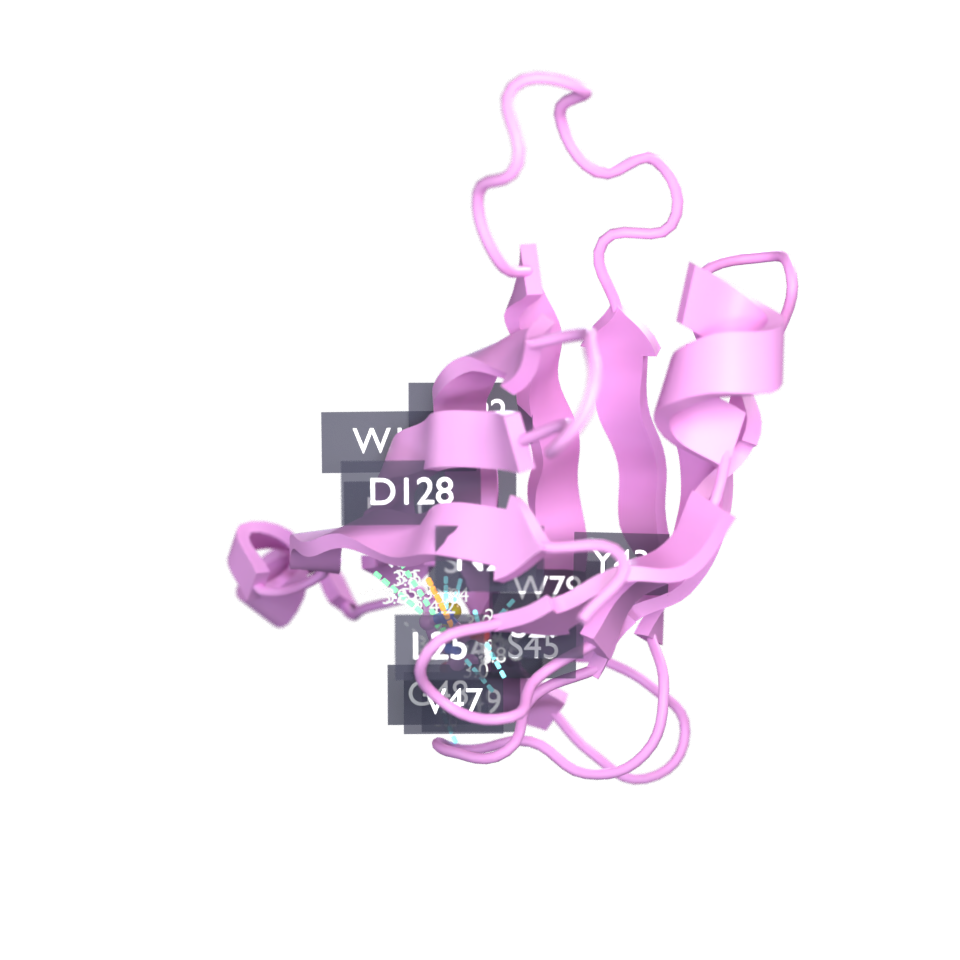
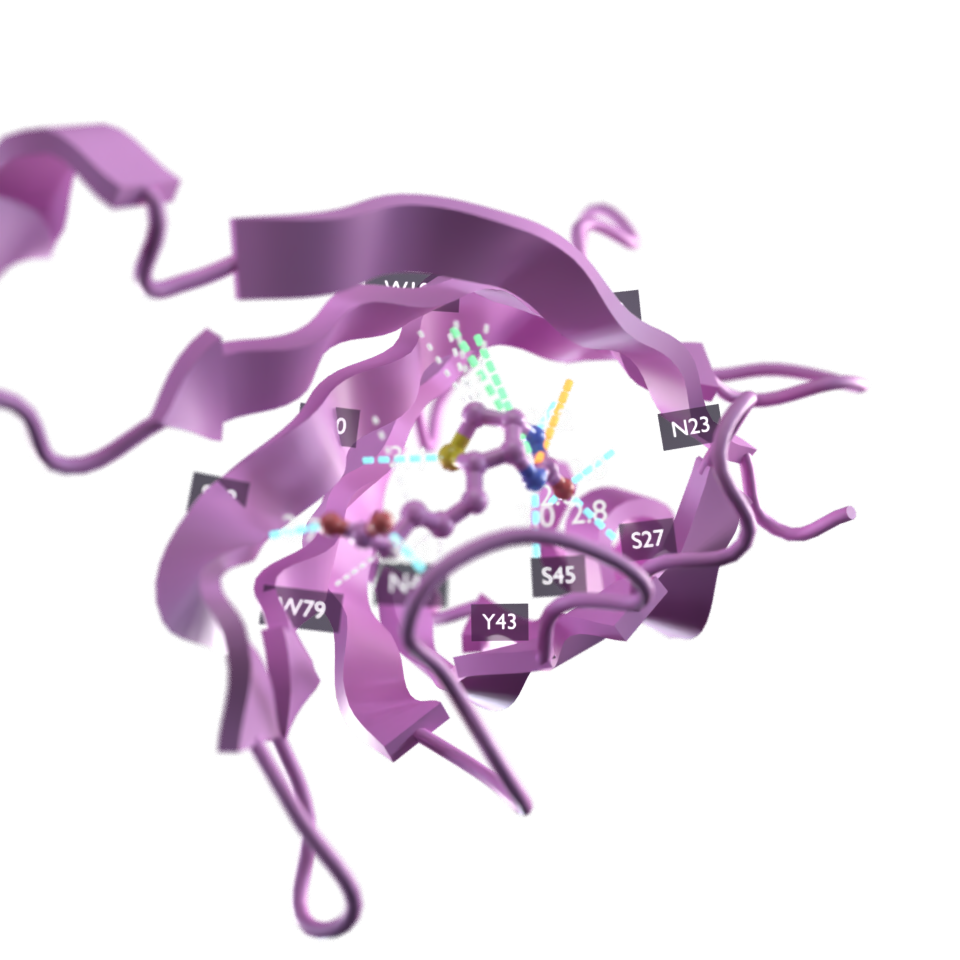
Show the binding site in the binding-site vignette
The figure was the whole 917-atom protein with sixteen label cards stacked
over the site in the middle of it, which is not a picture of a binding site.
Three things were wrong, and step 6 admitted the first in its own heading:

* "Frame the site rather than the whole protein" framed `mol`. frame_target
  had no way to do otherwise, so it now takes a `selection` — the rest of the
  molecule stays in the scene and is simply allowed out of shot. The camera
  guide already told people to "frame a selection instead", which until now
  they could not.

* The viewpoint was a fixed compass point. It is now computed from the
  structure: out of the protein through the ligand is where the pocket opens,
  so that is where the camera goes. For 1STP that is (-55, -60), and it still
  points at the site for a different complex.

* Every one of the sixteen pocket residues was labelled at size 2.0, and every
  one of the twenty contacts carried a distance. Now the ten residues within
  3.6 A are labelled at 0.9, and distances are quoted for the nine polar
  contacts — what a figure legend would report, rather than twenty numbers
  over one ligand.

Tried and rejected: styling the pocket as sticks and ghosting the cartoon.
Both made it busier rather than clearer, which was the whole complaint.

diff --git a/vignettes/02_binding_site.py b/vignettes/02_binding_site.py
@@ -13,6 +13,7 @@ import sys
 
 sys.path.insert(0, os.path.dirname(os.path.abspath(__file__)))
 
+import numpy as np
 from _common import QUALITY, heading, load_structure, render, setup
 
 mn, gala = setup()
@@ -86,8 +87,19 @@ for contact in sorted(contacts, key=lambda c: c.distance)[:6]:
 heading("4. Draw them")
 # ---------------------------------------------------------------------------
 # Real curve objects, not overlays: they light, shadow and occlude correctly.
+#
+# Distances are quoted for the polar contacts only. It is what a figure legend
+# would report, and twenty numbers stacked over one binding site is not a
+# figure anybody can read.
+POLAR_KINDS = {"hbond", "polar", "salt_bridge"}
+
 drawn = gala.draw_interactions(
-    contacts,
+    [c for c in contacts if c.kind not in POLAR_KINDS],
+    target=mol,
+    label=False,
+)
+drawn += gala.draw_interactions(
+    [c for c in contacts if c.kind in POLAR_KINDS],
     target=mol,
     label=True,
     label_template="{distance:.1f}",
@@ -113,15 +125,20 @@ gala.draw_interactions(
 # ---------------------------------------------------------------------------
 heading("5. Label the pocket")
 # ---------------------------------------------------------------------------
+# Only the residues in closest contact, and sized for the close-up below
+# rather than for the whole protein. Naming all sixteen pocket residues at this
+# range stacks the cards on top of each other and on the site they describe.
+CLOSEST = f"byres (protein within 3.6 of ({LIGAND}))"
+
 labels = gala.label(
     mol,
-    POCKET,
+    CLOSEST,
     template="{one}{resi}",
     level="residue",
     anchor="ca",
     style="card",  # a translucent plane keeps text legible over the surface
-    size=2.0,
-    offset=3.0,
+    size=0.9,
+    offset=2.0,
     billboard=True,
 )
 print(f"  labelled {len([o for o in labels if o.type == 'FONT'])} residues")
@@ -133,9 +150,31 @@ gala.label_hud(mol, "Ligand binding site", location=(0.04, 0.95), size=28)
 # ---------------------------------------------------------------------------
 heading("6. Frame the site rather than the whole protein")
 # ---------------------------------------------------------------------------
-# The margin only has to clear the labels and dashes drawn around the
-# molecule; the framing itself is now tight to the atoms.
-gala.frame_target(mol, viewpoint="iso", margin=1.15)
+# Frame the pocket, not the protein: the rest stays in the scene and is simply
+# allowed out of shot. Framing `mol` here — which this used to do, despite the
+# heading — put the whole 917-atom protein in the frame and left the site a
+# knot in the middle of it.
+SITE = f"({POCKET}) or ({LIGAND})"
+
+# Look into the pocket rather than from a fixed compass point. The direction
+# out of the protein through the ligand is where the site opens, so that is
+# where the camera belongs — derived from this structure rather than
+# hand-tuned, so it still points at the site for a different complex.
+import math
+
+positions = structure.world_positions()
+outward = positions[structure.select(LIGAND)].mean(axis=0) - positions[
+    structure.select("protein")
+].mean(axis=0)
+outward /= np.linalg.norm(outward)
+viewpoint = (
+    math.degrees(math.atan2(outward[0], -outward[1])),
+    math.degrees(math.asin(float(np.clip(outward[2], -1.0, 1.0)))),
+)
+print(f"  looking in along ({viewpoint[0]:.0f} deg, {viewpoint[1]:.0f} deg)")
+
+# The margin has to clear the labels, which sit outside the atoms they name.
+gala.frame_target(mol, selection=SITE, viewpoint=viewpoint, margin=1.7)
 gala.depth_of_field(mol, fstop=4.0)
 
 

diff --git a/blender_gala/scene/camera.py b/blender_gala/scene/camera.py
@@ -183,6 +183,7 @@ def frame_target(
     target: Any = None,
     viewpoint: str | Sequence[float] = "iso",
     margin: float = 1.15,
+    selection: str | None = None,
     camera: Any = None,
     scene: Any = None,
 ) -> Any:
@@ -199,6 +200,10 @@ def frame_target(
         Extra room around the molecule, as a multiple of its projected extent.
         ``1.0`` puts the outermost atom exactly on the frame edge; the default
         leaves a little air so atoms do not touch it.
+    selection : str, optional
+        Frame only these atoms, which is how you close in on a binding site
+        without hiding the rest of the protein. Everything else stays in the
+        scene and is simply allowed out of frame.
     camera : bpy.types.Object, optional
         Camera to move. Defaults to the scene camera, created if absent.
     scene : bpy.types.Scene, optional
@@ -213,6 +218,8 @@ def frame_target(
     ------
     ValueError
         If ``viewpoint`` is neither a known name nor a pair of angles.
+    EmptySelectionError
+        If ``selection`` matches no atoms.
     """
     bpy_mod = _require_bpy()
     scene = scene or bpy_mod.context.scene
@@ -257,10 +264,14 @@ def frame_target(
         np.array(orientation @ Vector((0.0, 0.0, -1.0))),  # forward
     )
 
-    points = _subject_points(target, scene)
+    points = _subject_points(target, scene, selection)
     if points is None or len(points) == 0:
         distance = _fit_distance(radius, camera.data, scene, margin)
     else:
+        # Recomputed from the points actually being framed, which is not the
+        # whole molecule when a selection narrows it.
+        centre = points.mean(axis=0)
+        radius = max(float(np.linalg.norm(points - centre, axis=1).max()), 1e-4)
         centre, distance = _fit_to_points(
             points, centre, basis, camera.data, scene, margin
         )
@@ -286,13 +297,16 @@ def _target_bounds(target: Any, scene: Any) -> tuple[np.ndarray, float]:
     return _subject_bounds(target, scene)
 
 
-def _subject_points(target: Any, scene: Any) -> np.ndarray | None:
+def _subject_points(
+    target: Any, scene: Any, selection: str | None = None
+) -> np.ndarray | None:
     """World-space points to fit in the frame, or ``None`` if there are none.
 
     Atom positions when the target is a molecule, and bounding-box corners
     otherwise: a box is still a much closer fit than the sphere around it.
     """
     from ..core.entity import AtomStructure
+    from ..core.exceptions import EmptySelectionError
 
     if target is not None:
         try:
@@ -300,7 +314,18 @@ def _subject_points(target: Any, scene: Any) -> np.ndarray | None:
         except Exception:
             structure = None
         if structure is not None and structure.n_atoms and structure.object is not None:
-            return structure.world_positions()
+            positions = structure.world_positions()
+            if selection is None:
+                return positions
+            mask = structure.select(selection)
+            if not mask.any():
+                raise EmptySelectionError(
+                    f"cannot frame {selection!r}: it matches no atoms"
+                )
+            return positions[mask]
+
+    if selection is not None:
+        raise TypeError("framing a selection needs a molecule to select from")
 
     if bpy is None:
         return None

diff --git a/docs/guide/scenes.md b/docs/guide/scenes.md
@@ -212,8 +212,15 @@ centroid. The two coincide for a symmetrical molecule and separate for one with
 a long tail on one side — an AlphaFold model with disordered arms, say — where
 aiming at the centroid leaves a band of empty frame down the other side. One
 atom well away from the rest still costs you the whole frame either way,
-because it has to be in it: frame a selection instead if you would rather it
-were not.
+because it has to be in it. Frame a selection instead if you would rather it
+were not — which is also how you close in on a binding site:
+
+```python
+gala.frame_target(mol, selection="byres (protein within 4.5 of ligand)")
+```
+
+Everything outside the selection stays in the scene and is simply allowed out
+of shot.
 
 A turntable:
 

diff --git a/docs/vignettes.md b/docs/vignettes.md
@@ -32,8 +32,10 @@ report it returns.
 ![02_binding_site](images/02_binding_site.png)
 
 `02_binding_site.py` — find every interaction between a ligand and its pocket,
-draw them as dashed lines with distance labels, and label the pocket residues
-on translucent cards. The full Objective 2 workflow.
+draw them as dashed lines, quote the polar distances, and label the closest
+residues on translucent cards. The camera looks in along the direction the
+pocket opens, computed from the structure, and frames the site rather than the
+protein. The full Objective 2 workflow.
 
 ## 3. Measuring
 
